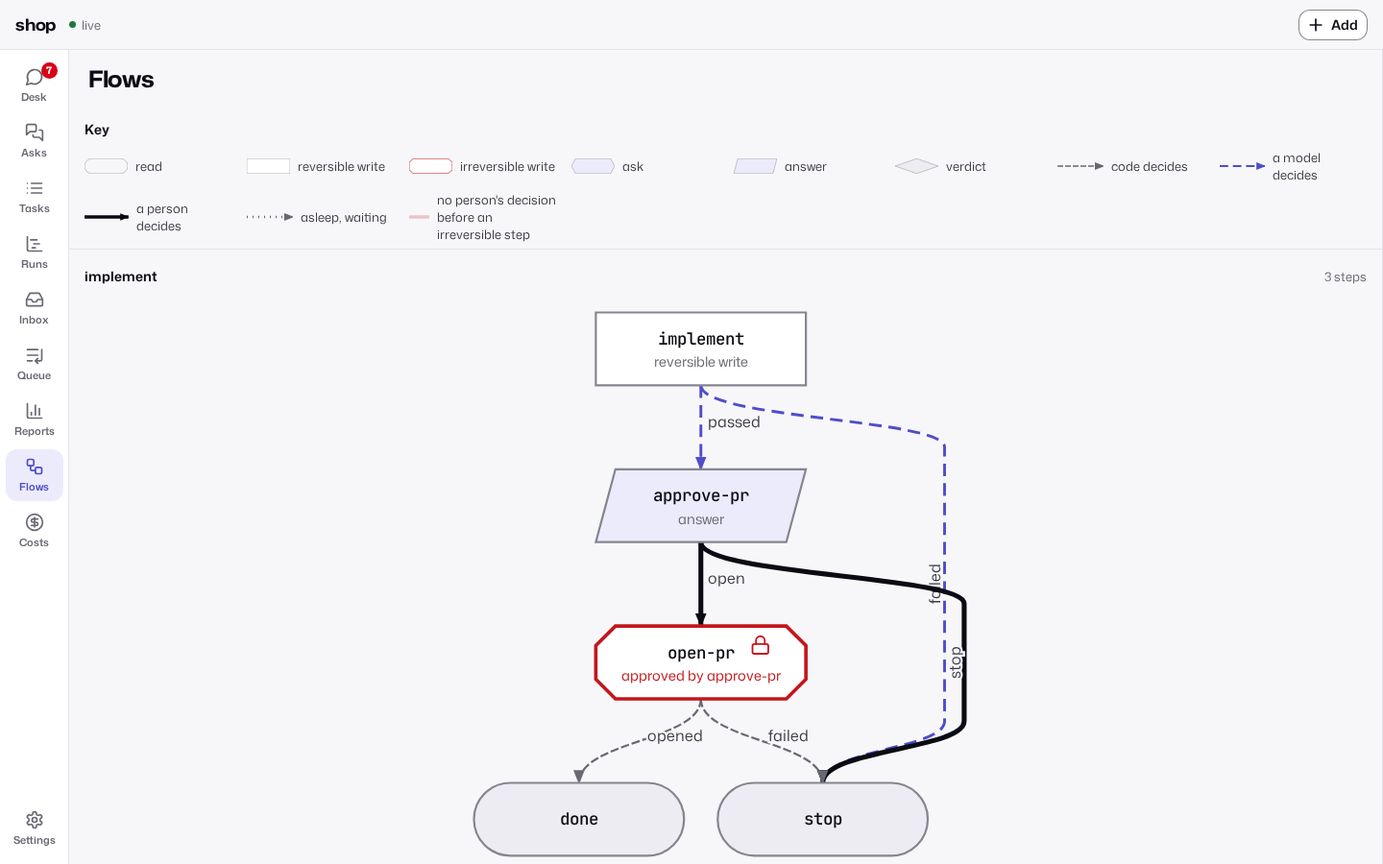
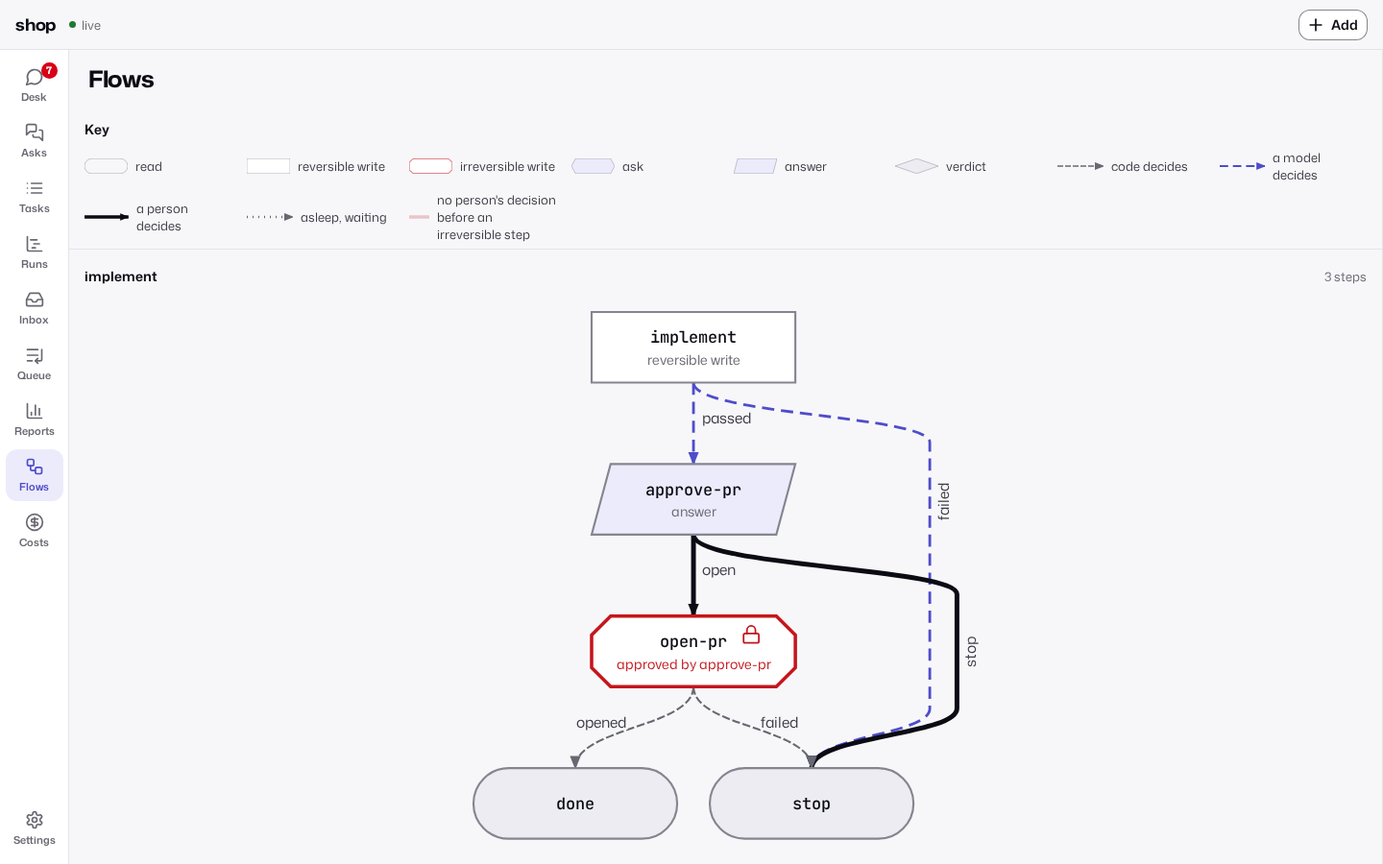
Quiet the empty desk, say Loading everywhere, unstack flow labels, fill the demo
An empty desk shows no 64 px "0": it says "Nothing needs you" in the
body role, its empty Up next and Since you looked read as plain
sentences, and the wide desk drops an empty table header. Every loading
line, web and Herdr, says "Loading ...", and DESIGN.md drops the
skeleton rows the code never drew.

Flow lanes sit 20 px apart. A turned label sits right of its own lane,
at the longest stretch no outer lane bends across, and a slanted label
sits on the side its edge heads to, off its own curve.

The demo seed gains a live run, a command ask, a snoozed ask, a stalled
queue's banner, a running check, and a task with Markdown brief and
plan text, so a design review can reach those states.

Changed region(s): [[0.3438, 0.3422, 0.7188, 0.9956], [0.4062, 0.3733, 0.4375, 0.4356], [0.6562, 0.9333, 0.6875, 0.9644]]

diff --git a/crates/priory-core/web/app.js b/crates/priory-core/web/app.js
@@ -11,7 +11,7 @@ import { KINDS, edgeStyle, historyRows, lockBadge, nodeShape, timeline, ungatedP
 import { emptyDetail, eventWords, handled, neverOwned, sinceWords, routeAction, unheardActs, unheardNote, unroutedNote } from "./inbox.js";
 import { editBody, issueName, laneLayout, momentWords, stages, successors } from "./batches.js";
 import { EARLIER_CAP, KEYS, keyboardSession, paintRows, sayLine, screenRows, screenWatch } from "./terminal.js";
-import { actionNote, batchParts, countWords, dueParts, memoryNote, memoryTag, mergeSince, nextLink, onRoom, progressView, rowAction, sectionInView, sinceGroups } from "./desk.js";
+import { actionNote, batchParts, countHead, countWords, dueParts, memoryNote, memoryTag, mergeSince, nextLink, onRoom, progressView, rowAction, sectionInView, sinceGroups } from "./desk.js";
 import { TASK_VIEWS, elsewhere, filtered, olderPart, remoteActs, remoteId, remoteSent, taskFacets, taskLabel, taskViews, triageWords } from "./tasks.js";
 import { RUN_FACETS, RUN_VIEWS, duration, runState, runViews, tokenText } from "./runs.js";
 import { PANELS, backTo, pageTitle } from "./pages.js";
@@ -634,9 +634,10 @@ function upNext(model, queueLink = true) {
   const what = (run) => html`<span class="mono">${run.key ? taskLabel(run.key) : run.trigger}</span> ${run.why}`;
   const body = next.length
     ? html`<ol>${next.map((run) => html`<li>${timeTag(run.at, when(run))}${run.task ? html`<a href="/tasks/${run.task}" title="task ${run.task}">${what(run)}</a>` : html`<span>${what(run)}</span>`}</li>`)}</ol>`
-    : html`<p>Nothing is queued or scheduled to run next.</p>`;
+    : null;
   const link = queueLink ? html`<a class="open" href="/queue">Open the queue</a>` : "";
-  return html`<div class="sec">Up next<span>next 3 runs</span></div><div class="strip">${body}${link}</div>`;
+  const shown = body ? html`<div class="strip">${body}${link}</div>` : html`<p class="empty">Nothing is queued or scheduled to run next.</p>${link}`;
+  return html`<div class="sec">Up next<span>next 3 runs</span></div>${shown}`;
 }
 
 // The one next thing (DESIGN.md, Desk): the desk's `next`, an alarm or the ask that ranks first, and why.
@@ -665,8 +666,9 @@ function sinceYouLooked() {
   const body = groups.length
     ? groups.map((group) => html`<div class="sgroup">${group.task ? html`<a class="mono" href="/tasks/${group.task}" title="task ${group.task}">${taskLabel(group.key)}</a>` : html`<span class="mono">factory</span>`}
       <ol>${group.events.map((event) => html`<li>${timeTag(event.time)}<span>${sinceWords(event.what)}</span></li>`)}</ol></div>`)
-    : html`<p>Nothing happened since you looked.</p>`;
-  return html`<div class="sec">Since you looked<span>${from ? `since ${today(from) ? clock(from) : date(from)}` : "latest 50"}</span></div><div class="strip since" data-since>${body}</div>`;
+    : null;
+  const shown = body ? html`<div class="strip since" data-since>${body}</div>` : html`<p class="empty" data-since>Nothing happened since you looked.</p>`;
+  return html`<div class="sec">Since you looked<span>${from ? `since ${today(from) ? clock(from) : date(from)}` : "latest 50"}</span></div>${shown}`;
 }
 
 function deskBody(wide) {
@@ -833,6 +835,7 @@ const review = html`<span class="task-acts"><a class="btn secondary act" href="/
 const itemActs = (item) => (["blocked", "failed"].includes(item.kind) ? taskActs(item.task, item.kind) : rowActs(item));
 
 function deskTable(model, selected) {
+  if (!model.open.length && !model.stopped.length && !model.todos.length && !model.other.length) return "";
   const itemLine = (item) => item.kind === "memories" ? html`<tr>
     <td>${stateWord("memories")}</td><td class="mono"></td><td></td><td class="q full"><span>${item.candidates?.length ?? 0} memory candidates: ${(item.candidates || []).map((candidate) => candidate.name).join(", ")}</span>${fold(review)}</td>
     <td class="recw">${review}</td><td class="r">${timeTag(item.since)}</td></tr>` : html`<tr>
@@ -1588,7 +1591,7 @@ function terminalBody({ term, task, tmux, end }) {
   if (stale && !end && !gone) notes.push(["warn", "unplug", screen ? `Reconnecting. Screen from ${clock(new Date(at).toISOString())}, ${Math.round((Date.now() - at) / 1000)} s ago.` : "Reconnecting. The screen could not be read yet."]);
   if (end) notes.push(["", (STATES[end] || [, "circle-help"])[1], screen ? `Run ${run} ended as ${end}. This is the last screen this page saw.` : `Run ${run} ended as ${end}.`]);
   else if (gone) notes.push(["warn", "unplug", `This server reads no screen of run ${run}. Run priory screen ${task} on the runner to see why.`]);
-  else if (!screen && !stale) notes.push(["", "clock", "Reading the screen…"]);
+  else if (!screen && !stale) notes.push(["", "clock", "Loading the screen…"]);
   const keys = keyboard.state();
   const held = end ? null : keys.held;
   const offer = !end && !held && Boolean(screen?.keyboard);
@@ -2552,7 +2555,7 @@ const flowEdge = (edge) => {
   const line = (extra) => html`<path d="${edge.d}" fill="none" stroke-width="${style.width}" ${style.dash ? raw(`stroke-dasharray="${style.dash}"`) : ""} class="${extra}"/>`;
   return html`<g class="fedge by-${edge.by}${edge.ungated ? " ungated" : ""}"><title>${edge.outcome}: ${edge.from} to ${edge.to}, ${BY_WORD[edge.by] ?? edge.by}${edge.ungated ? ", reaches an irreversible step with no person's decision" : ""}</title>
     ${edge.ungated ? html`<path d="${edge.d}" fill="none" stroke-width="${style.width + 6}" class="halo"/>` : ""}${line("fline")}
-    <text x="${edge.mid.x + (edge.vertical ? 0 : 5)}" y="${edge.mid.y}" class="felabel"${edge.vertical ? raw(` transform="rotate(-90 ${edge.mid.x} ${edge.mid.y})" text-anchor="middle"`) : ""}>${clip(edge.outcome, 14)}</text></g>`;
+    <text x="${edge.label.x}" y="${edge.label.y}" text-anchor="${edge.label.anchor}" class="felabel"${edge.label.turned ? raw(` transform="rotate(-90 ${edge.label.x} ${edge.label.y})"`) : ""}>${clip(edge.outcome, 14)}</text></g>`;
 };
 
 const flowLegend = () => html`<section class="sect flegend" aria-labelledby="legend-title"><h2 class="sh" id="legend-title">Key</h2>
@@ -2586,7 +2589,7 @@ function flowsPage(compact) {
   const head = compact ? html`<div class="top"><h1>Flows</h1><span class="sp"></span>${connection()}</div>` : html`<div class="lhead"><h1>Flows</h1></div>`;
   const flows = state.data.flows;
   if (!flows && state.flowsError) return html`${head}<p class="empty" role="alert">The flows did not load: ${state.flowsError}. Run <code>priory check --explain</code> meanwhile.</p><p class="empty"><button class="btn secondary" data-action="flows-retry">Retry</button></p>`;
-  if (!flows) { setTimeout(loadFlows); return html`${head}<p class="empty" role="status">Loading the flows.</p>`; }
+  if (!flows) { setTimeout(loadFlows); return html`${head}<p class="empty" role="status">Loading the flows…</p>`; }
   const body = flows.workflows.length ? html`${flowLegend()}${flows.workflows.map((workflow) => flowSection(workflow, flows.paths, flows.irreversible))}` : html`<p class="empty">This factory has no workflows. Add one under <code>workflows/</code>.</p>`;
   return html`${head}<div class="panel" role="region" aria-label="Flows"><div class="scroll">${body}</div></div>`;
 }
@@ -2733,10 +2736,10 @@ async function turnPush(on) {
 // Screens
 function deskPhone(withCapsule = true) {
   const { model, views, banner, rows } = deskBody(false);
-  const n = model.open.length;
+  const head = countHead(model.open.length);
   return html`<div class="top"><span class="fac">${state.data.views.factory}</span>${connection()}</div>
     <div class="panel" role="region" aria-label="Desk"><h1 class="sr">Desk</h1><div class="scroll ${withCapsule ? "desk-end" : ""}">
-      <div class="count"><span class="n num">${n}</span><span class="w">${n === 1 ? "ask needs you" : "asks need you"}<span>${countLine(model)}</span></span></div>
+      <div class="count ${head.n ? "" : "quiet"}">${head.n ? html`<span class="n num">${head.n}</span>` : ""}<span class="w">${head.words}<span>${countLine(model)}</span></span></div>
       ${nextCard(model)}${views}${banner}${rows}</div>${withCapsule ? capsule(model) : ""}</div>`;
 }
 
@@ -2749,9 +2752,9 @@ function asksPhone() {
 function listPanel(panel, wide) {
   if (panel === "desk") {
     const { model, views, banner, rows } = deskBody(wide);
-    const n = model.open.length;
+    const head = countHead(model.open.length);
     return html`<div class="list" role="region" aria-label="Desk"><div class="lhead"><h1>Desk</h1>
-      <span class="cnt"><span class="n num">${n}</span><span class="w">${n === 1 ? "ask needs you" : "asks need you"}<span>${countLine(model)}</span></span></span></div>
+      <span class="cnt">${head.n ? html`<span class="n num">${head.n}</span>` : ""}<span class="w">${head.words}<span>${countLine(model)}</span></span></span></div>
       ${nextCard(model)}${views}${banner}<div class="scroll">${rows}</div>${wide ? keyHints() : ""}</div>`;
   }
   if (panel === "inbox") {

diff --git a/adapters/herdr/mods/priory-flows/view.js b/adapters/herdr/mods/priory-flows/view.js
@@ -6,7 +6,8 @@ export const KINDS = ["read", "reversible", "irreversible", "ask", "answer", "ve
 const WRITES = { reversible: "reversible write", irreversible: "irreversible write" };
 const NODE = { width: 150, height: 52 };
 const GAP = { column: 24, row: 60, edge: 12 };
-const LANE = { pad: 8, step: 14 };
+// A lane is wide enough for its turned label to sit beside its line, clear of the next lane.
+const LANE = { pad: 8, step: 20 };
 const PER_ROW = 2;
 
 /**
@@ -57,6 +58,25 @@ export function ungatedPairs(workflow, paths) {
     entry.path.slice(1).forEach((to, at) => pairs.add(`${entry.path[at]}>${to}`));
   }
   return pairs;
+}
+
+/**
+ * Where a turned label sits along its lane: the middle of the longest stretch of the lane's
+ * straight part that no outer lane edge bends across, 24 px either side of its straight part.
+ * @param {any} edge @param {any[]} edges
+ */
+function clearOf(edge, edges) {
+  const [top, bottom] = edge.straight;
+  const bends = edges.filter((other) => other.label.turned && other.lane > edge.lane)
+    .flatMap((other) => [[other.straight[0] - 24, other.straight[0] + 4], [other.straight[1] - 4, other.straight[1] + 24]])
+    .sort((a, b) => a[0] - b[0]);
+  let [best, from] = [[top, top], top];
+  for (const [start, end] of [...bends, [bottom, bottom]]) {
+    const to = Math.min(start, bottom);
+    if (to - from > best[1] - best[0]) best = [from, to];
+    from = Math.max(from, end);
+  }
+  return (best[0] + best[1]) / 2;
 }
 
 /**
@@ -124,11 +144,15 @@ export function timeline(workflow, ungated) {
       ? `M${start.x} ${start.y}C${start.x} ${start.y + 24} ${lane} ${start.y + 24} ${lane} ${start.y + 44}V${end.y - 44}C${lane} ${end.y - 24} ${end.x} ${end.y - 24} ${end.x} ${end.y}`
       : `M${start.x} ${start.y}C${start.x} ${start.y + 30} ${end.x} ${end.y - 30} ${end.x} ${end.y}`;
     const mid = skips ? { x: lane - 3, y: (start.y + end.y) / 2 } : { x: (start.x + end.x) / 2, y: (start.y + end.y) / 2 };
+    // A slanted label goes on the side its edge heads to, where its own curve is not.
+    const left = end.x < start.x;
+    const label = skips ? { x: lane + 14, y: mid.y, anchor: "middle", turned: true } : { x: mid.x + (left ? -6 : 6), y: mid.y, anchor: left ? "end" : "start", turned: false };
     return {
-      from: step.id, to: next.to, outcome: next.outcome, by: next.by, d, mid, back: looped, vertical: skips,
+      from: step.id, to: next.to, outcome: next.outcome, by: next.by, d, mid, lane: skips ? lane : null, label, back: looped, vertical: skips, straight: [start.y + 44, end.y - 44],
       ungated: next.by !== "human" && ungated.has(`${step.id}>${next.to}`),
     };
   }));
+  for (const edge of edges) if (edge.label.turned) edge.label.y = clearOf(edge, edges);
   const width = block + lanes * LANE.step + LANE.pad;
   const height = (rows.length) * (NODE.height + GAP.row) - GAP.row + 2 * GAP.edge;
   const text = [

diff --git a/crates/priory-core/web/flows.js b/crates/priory-core/web/flows.js
@@ -6,7 +6,8 @@ export const KINDS = ["read", "reversible", "irreversible", "ask", "answer", "ve
 const WRITES = { reversible: "reversible write", irreversible: "irreversible write" };
 const NODE = { width: 150, height: 52 };
 const GAP = { column: 24, row: 60, edge: 12 };
-const LANE = { pad: 8, step: 14 };
+// A lane is wide enough for its turned label to sit beside its line, clear of the next lane.
+const LANE = { pad: 8, step: 20 };
 const PER_ROW = 2;
 
 /**
@@ -57,6 +58,25 @@ export function ungatedPairs(workflow, paths) {
     entry.path.slice(1).forEach((to, at) => pairs.add(`${entry.path[at]}>${to}`));
   }
   return pairs;
+}
+
+/**
+ * Where a turned label sits along its lane: the middle of the longest stretch of the lane's
+ * straight part that no outer lane edge bends across, 24 px either side of its straight part.
+ * @param {any} edge @param {any[]} edges
+ */
+function clearOf(edge, edges) {
+  const [top, bottom] = edge.straight;
+  const bends = edges.filter((other) => other.label.turned && other.lane > edge.lane)
+    .flatMap((other) => [[other.straight[0] - 24, other.straight[0] + 4], [other.straight[1] - 4, other.straight[1] + 24]])
+    .sort((a, b) => a[0] - b[0]);
+  let [best, from] = [[top, top], top];
+  for (const [start, end] of [...bends, [bottom, bottom]]) {
+    const to = Math.min(start, bottom);
+    if (to - from > best[1] - best[0]) best = [from, to];
+    from = Math.max(from, end);
+  }
+  return (best[0] + best[1]) / 2;
 }
 
 /**
@@ -124,11 +144,15 @@ export function timeline(workflow, ungated) {
       ? `M${start.x} ${start.y}C${start.x} ${start.y + 24} ${lane} ${start.y + 24} ${lane} ${start.y + 44}V${end.y - 44}C${lane} ${end.y - 24} ${end.x} ${end.y - 24} ${end.x} ${end.y}`
       : `M${start.x} ${start.y}C${start.x} ${start.y + 30} ${end.x} ${end.y - 30} ${end.x} ${end.y}`;
     const mid = skips ? { x: lane - 3, y: (start.y + end.y) / 2 } : { x: (start.x + end.x) / 2, y: (start.y + end.y) / 2 };
+    // A slanted label goes on the side its edge heads to, where its own curve is not.
+    const left = end.x < start.x;
+    const label = skips ? { x: lane + 14, y: mid.y, anchor: "middle", turned: true } : { x: mid.x + (left ? -6 : 6), y: mid.y, anchor: left ? "end" : "start", turned: false };
     return {
-      from: step.id, to: next.to, outcome: next.outcome, by: next.by, d, mid, back: looped, vertical: skips,
+      from: step.id, to: next.to, outcome: next.outcome, by: next.by, d, mid, lane: skips ? lane : null, label, back: looped, vertical: skips, straight: [start.y + 44, end.y - 44],
       ungated: next.by !== "human" && ungated.has(`${step.id}>${next.to}`),
     };
   }));
+  for (const edge of edges) if (edge.label.turned) edge.label.y = clearOf(edge, edges);
   const width = block + lanes * LANE.step + LANE.pad;
   const height = (rows.length) * (NODE.height + GAP.row) - GAP.row + 2 * GAP.edge;
   const text = [

diff --git a/crates/priory-core/web/flows.test.js b/crates/priory-core/web/flows.test.js
@@ -124,3 +124,41 @@ test("each irreversible step of a workflow shows its history: counts, then the b
   ]);
   assert.deepEqual(historyRows([{ workflow: "implement", step: "open-pr", risk_estimate: null }], "implement"), []);
 });
+
+// An 11 px label turned a quarter: its ascent reaches 11 px left of the baseline, its descent 3 px right.
+test("a turned label sits between its own lane and the next, clear of every line", () => {
+  const drawing = timeline(implement, new Set());
+  const turned = drawing.edges.filter((each) => each.label.turned);
+  assert.ok(turned.length >= 3);
+  const lanes = turned.map((each) => each.lane).sort((a, b) => a - b);
+  for (const each of turned) {
+    const [left, right] = [each.label.x - 11, each.label.x + 3];
+    assert.ok(lanes.every((lane) => lane < left - 1 || lane > right + 1), `${each.outcome} sits on a lane`);
+    assert.ok(left > each.lane && right < drawing.width, `${each.outcome} leaves its lane's band`);
+  }
+});
+
+test("a slanted label sits on the side its edge heads to, off its own curve", () => {
+  const drawing = timeline(implement, new Set());
+  const opened = drawing.edges.find((each) => each.outcome === "opened");
+  const failed = drawing.edges.find((each) => each.from === "open-pr" && each.outcome === "failed");
+  assert.deepEqual([opened.label.turned, opened.label.anchor], [false, "end"]);
+  assert.ok(opened.label.x < opened.mid.x);
+  assert.deepEqual([failed.label.turned, failed.label.anchor], [false, "start"]);
+  assert.ok(failed.label.x > failed.mid.x);
+});
+
+// A lane edge bends from its node to its lane between 24 and 44 px past the node, at each end, so
+// it crosses every lane inside its own there.
+test("a turned label sits where no outer lane edge bends across it", () => {
+  const drawing = timeline(implement, new Set());
+  const turned = drawing.edges.filter((each) => each.label.turned);
+  for (const each of turned) {
+    const half = (each.outcome.length * 6.5) / 2;
+    const [top, bottom] = [each.label.y - half, each.label.y + half];
+    for (const outer of turned.filter((other) => other.lane > each.lane)) {
+      const [from, to] = [Number(/^M[\d.]+ ([\d.]+)/.exec(outer.d)[1]), Number(/V([\d.]+)/.exec(outer.d)[1])];
+      for (const [a, b] of [[from + 20, from + 48], [to - 4, to + 24]]) assert.ok(bottom < a || top > b, `${each.outcome} is crossed by ${outer.outcome}`);
+    }
+  }
+});

diff --git a/crates/priory-core/web/app.css b/crates/priory-core/web/app.css
@@ -82,6 +82,8 @@ input { font: 400 16px/20px var(--font-ui); color: var(--text); background: var(
 .count .n { font: var(--count-weight) var(--type-count) var(--font-display); font-stretch: var(--count-stretch); letter-spacing: var(--count-tracking); color: var(--count); }
 .count .w { font: 700 var(--type-hero) var(--font-display); font-stretch: var(--display-stretch); letter-spacing: -0.3px; }
 .count .w span { display: block; font: 400 var(--type-caption) var(--font-ui); font-stretch: 100%; letter-spacing: 0; color: var(--text-3); margin-top: 2px; }
+/* An empty desk is quiet: no number, the words in the body role (DESIGN.md, Desk). */
+.count.quiet .w { font: 600 var(--type-body) var(--font-ui); font-stretch: 100%; letter-spacing: 0; color: var(--text-2); }
 
 /* Saved views */
 .views { flex: none; display: flex; gap: var(--space-2); padding: 5px var(--gutter); flex-wrap: wrap; }
@@ -130,6 +132,8 @@ a.facet[aria-current="true"] { background: var(--action-soft); color: var(--acti
 .row.one .tile, .row.one .chev { grid-row: auto; grid-column: auto; margin: 0; }
 .row.past .l2 { color: var(--text-2); font-weight: 400; }
 .empty { padding: var(--space-8) var(--gutter); color: var(--text-2); font: 400 var(--type-small) var(--font-ui); max-width: 52ch; }
+.sec + .empty { padding: 2px var(--gutter) 12px; }
+.sec + .empty + .open { display: inline-flex; align-items: center; min-height: 44px; margin: -12px var(--gutter) 0; color: var(--action-text); font: 500 var(--type-small) var(--font-ui); }
 .empty code, .note code { font: 400 13px/1 var(--font-mono); background: var(--raised); padding: 2px 5px; border-radius: var(--radius-sm); }
 .strip { margin: 0 var(--gutter); padding: 12px; border: 1px solid var(--line); border-radius: var(--radius-md); color: var(--text-3); font: 400 var(--type-small) var(--font-ui); }
 .strip li { display: grid; grid-template-columns: 96px minmax(0, 1fr); gap: 8px; padding: 6px 0; color: var(--text-2); }

diff --git a/adapters/herdr/test/flows.test.js b/adapters/herdr/test/flows.test.js
@@ -60,10 +60,16 @@ test("an upright lane label that would cover another moves down a line, and the 
   const flows = fixture("flows-groom");
   const [groom] = flows.workflows;
   const edges = timeline(groom, ungatedPairs(groom.name, flows.paths)).edges;
-  const spots = labelSpots(edges, 1);
-  const at = (from, to) => spots[edges.findIndex((edge) => edge.from === from && edge.to === to)];
-  // rejected and failed share their lanes' middle, 42 px apart: the later one moves 16 px down.
-  assert.deepEqual([at("approve-plan", "stop"), at("implement-green", "stop")], [{ x: 365, y: 422 }, { x: 407, y: 438 }]);
+  const spotsAt = (scale) => {
+    const spots = labelSpots(edges, scale);
+    return (from, to) => spots[edges.findIndex((edge) => edge.from === from && edge.to === to)];
+  };
+  // At full size, rejected and failed share their lanes' middle 60 px apart, so neither moves.
+  const at = spotsAt(1);
+  assert.deepEqual([at("approve-plan", "stop"), at("implement-green", "stop")], [{ x: 371, y: 422 }, { x: 431, y: 422 }]);
   assert.deepEqual(at("groom", "implement"), { x: 351, y: 142 });
   assert.deepEqual(at("groom", "approve-plan"), { x: 135.5, y: 86 });
+  // At half size they sit 30 px apart: the later one moves down whole lines until it covers none.
+  const half = spotsAt(0.5);
+  assert.deepEqual([half("approve-plan", "stop"), half("implement-green", "stop")], [{ x: 188.5, y: 207 }, { x: 218.5, y: 255 }]);
 });

diff --git a/crates/priory-core/web/desk.test.js b/crates/priory-core/web/desk.test.js
@@ -1,6 +1,6 @@
 import { test } from "node:test";
 import assert from "node:assert/strict";
-import { nextLink, onRoom, sinceGroups, mergeSince, progressView, sectionInView, dueText, rowAction, actionNote, batchParts, countWords, memoryNote, memoryTag } from "./desk.js";
+import { nextLink, onRoom, sinceGroups, mergeSince, progressView, sectionInView, dueText, rowAction, actionNote, batchParts, countWords, memoryNote, memoryTag, countHead } from "./desk.js";
 
 const why = "work stopped and waits on a person";
 
@@ -151,4 +151,10 @@ test("the Desk's count line names every item Needs me counts besides the asks", 
   assert.equal(countWords({ oldest: null, stopped: 0, todos: 2, reports: 1, other: 0 }), "Also 2 to-dos and 1 report.");
   assert.equal(countWords({ oldest: null, stopped: 2, todos: 1, reports: 3, other: 1 }), "Also 2 stopped, 1 to-do, 3 reports and 1 waiting.");
   assert.equal(countWords({ ...none, oldest: null }), "");
+});
+
+test("the count shows a number only when an ask needs you, so an empty desk stays quiet", () => {
+  assert.deepEqual(countHead(0), { n: null, words: "Nothing needs you" });
+  assert.deepEqual(countHead(1), { n: 1, words: "ask needs you" });
+  assert.deepEqual(countHead(7), { n: 7, words: "asks need you" });
 });

diff --git a/adapters/herdr/mods/priory-asks/main.js b/adapters/herdr/mods/priory-asks/main.js
@@ -477,7 +477,7 @@ export default class PrioryAsks extends View {
       answered: "No answered asks yet. An ask moves here once someone answers it.",
       all: "No asks yet. Agents ask here when they need you.",
     }[this.view] ?? "";
-    if (!this.data) return v_flex().id("asks-list").p(16).text_color(t["text-3"]).child(this.error ? "" : "Reading the asks…");
+    if (!this.data) return v_flex().id("asks-list").p(16).text_color(t["text-3"]).child(this.error ? "" : "Loading the asks…");
     return v_flex().id("asks-list").min_h_0().overflow_y_scrollbar().pb(16)
       .when(this.view === "snoozed" && list.sections.length > 0, (el) => el.child(div().px(16).pt(10).text_size(TYPE.caption[0]).text_color(t["text-3"])
         .child("Snoozed asks leave the Open count. The agent keeps waiting, and a new revision brings an ask back early.")))

diff --git a/adapters/herdr/mods/priory-bonjour/main.js b/adapters/herdr/mods/priory-bonjour/main.js
@@ -524,7 +524,7 @@ export default class PrioryBonjour extends View {
   document(model, t, wide) {
     const pad = wide ? S["space-5"] : S["space-4"];
     if (!model) {
-      const text = this.empty ? "No report yet. The factory's bonjour workflow writes one each morning." : this.error ? "" : "Reading the report…";
+      const text = this.empty ? "No report yet. The factory's bonjour workflow writes one each morning." : this.error ? "" : "Loading the report…";
       return v_flex().id("bonjour-document").flex_1().p(pad).text_color(t["text-2"]).child(text);
     }
     return v_flex().id("bonjour-document").flex_1().min_w_0().min_h_0().overflow_y_scrollbar().track_scroll(this.scroll).px(pad).pt(pad).pb(32).gap(6)

diff --git a/adapters/herdr/mods/priory-queue/main.js b/adapters/herdr/mods/priory-queue/main.js
@@ -396,7 +396,7 @@ export default class PrioryQueue extends View {
       ended: "No task ended in the last day.",
       all: "No tasks yet.",
     }[this.view] ?? "";
-    if (!this.data) return v_flex().id("queue-list").p(16).text_color(t["text-3"]).child(this.error ? "" : "Reading the queue…");
+    if (!this.data) return v_flex().id("queue-list").p(16).text_color(t["text-3"]).child(this.error ? "" : "Loading the queue…");
     return v_flex().id("queue-list").min_h_0().overflow_y_scrollbar().pb(16)
       .when(this.view === "next" && this.data.up_next.length > 0, (el) => el.child(this.upNext(t, now)))
       .when(!list.sections.length, (el) => el.child(div().p(16).text_color(t["text-2"]).child(empty)))

diff --git a/adapters/herdr/mods/priory-runs/main.js b/adapters/herdr/mods/priory-runs/main.js
@@ -117,7 +117,7 @@ export default class PrioryRuns extends View {
   /** @param {any[]} shown @param {Palette} t @param {number} now */
   body(shown, t, now) {
     const note = (/** @type {string} */ line) => [div().p(S["space-2"]).whitespace_normal().text_color(t["text-2"]).child(line)];
-    if (!this.runs) return this.error ? [] : note("Reading the runs…");
+    if (!this.runs) return this.error ? [] : note("Loading the runs…");
     const week = shown.filter((run) => !run.ended || now - Date.parse(run.started) < WEEK_MS);
     const older = shown.length - week.length;
     const rows = (this.older ? shown : week).map((run) => this.row(run, t, now));

diff --git a/adapters/herdr/mods/priory-costs/main.js b/adapters/herdr/mods/priory-costs/main.js
@@ -161,7 +161,7 @@ export default class PrioryCosts extends View {
   body(t, wide) {
     const pad = wide ? S["space-5"] : S["space-4"];
     if (!this.data) {
-      return v_flex().id("costs-body").flex_1().p(pad).text_color(t["text-2"]).child(this.error ? "" : "Reading costs…");
+      return v_flex().id("costs-body").flex_1().p(pad).text_color(t["text-2"]).child(this.error ? "" : "Loading costs…");
     }
     const { costs, attention } = this.data;
     const scroll = (/** @type {string} */ id) => v_flex().id(id).flex_1().min_w_0().min_h_0().overflow_y_scrollbar().px(pad).pt(pad).pb(32).gap(S["space-5"]);
